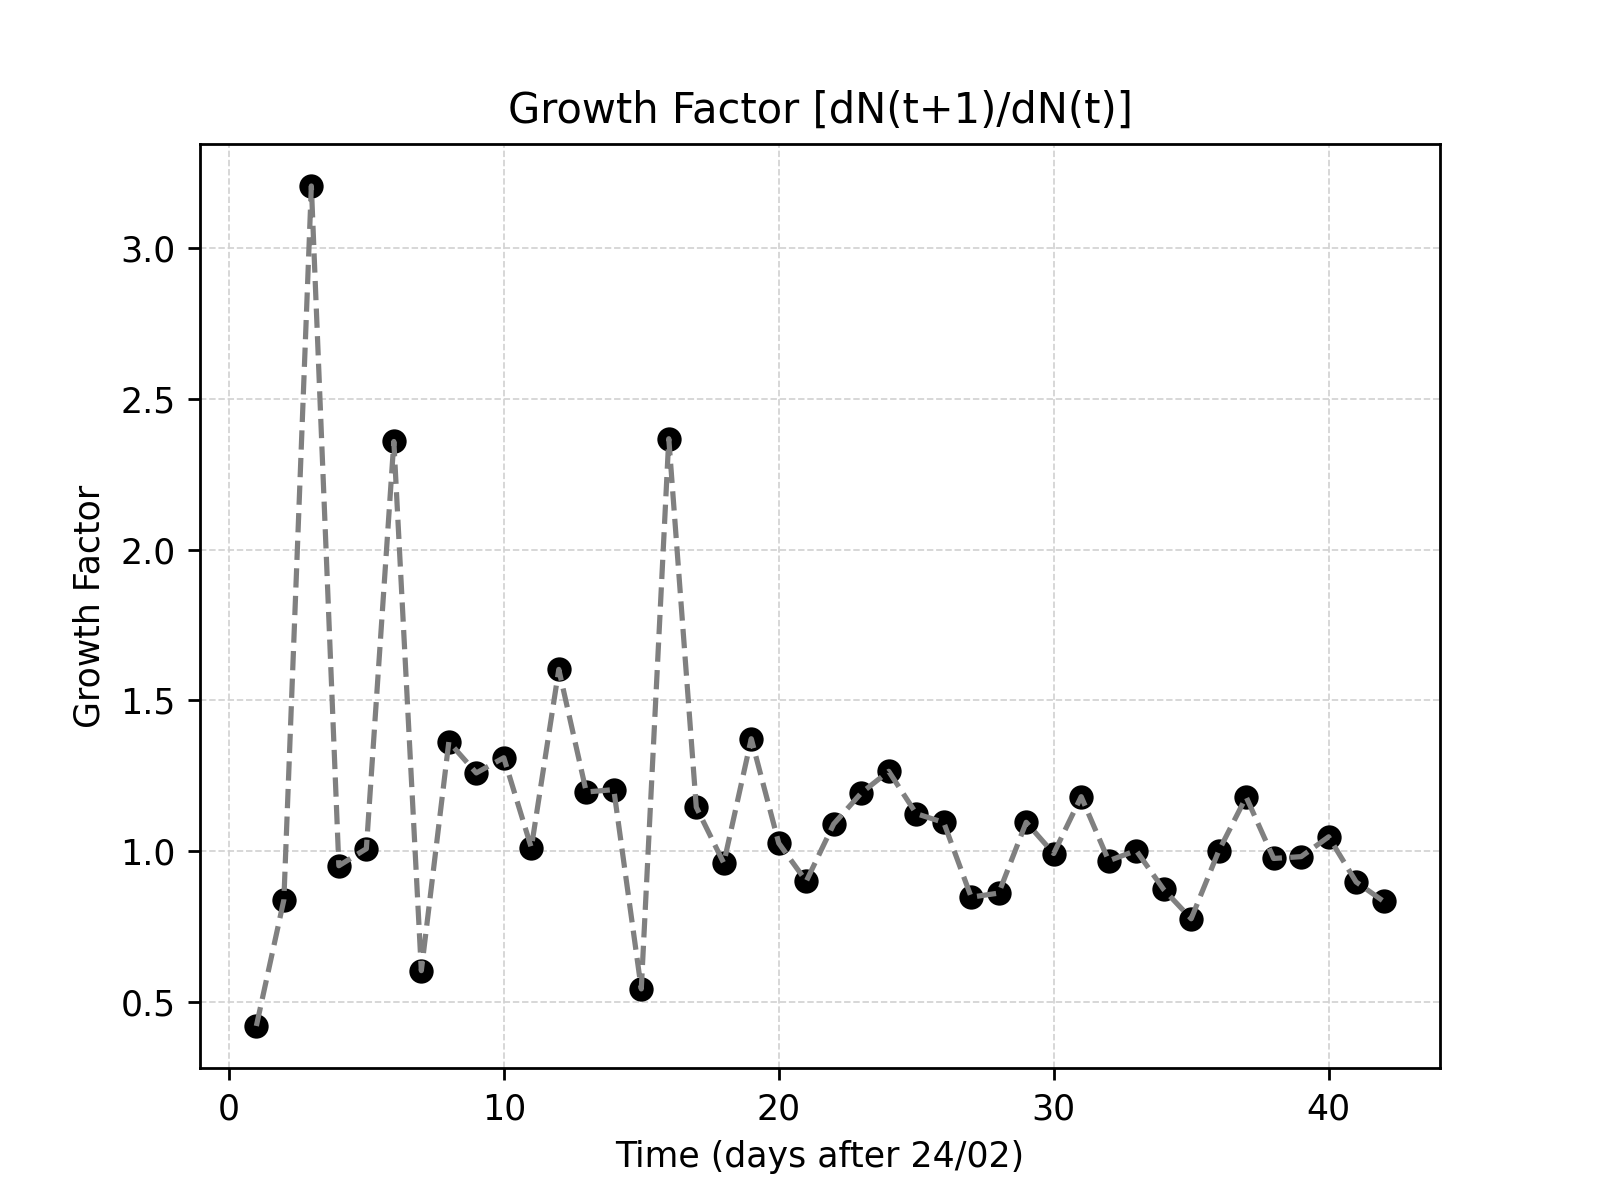
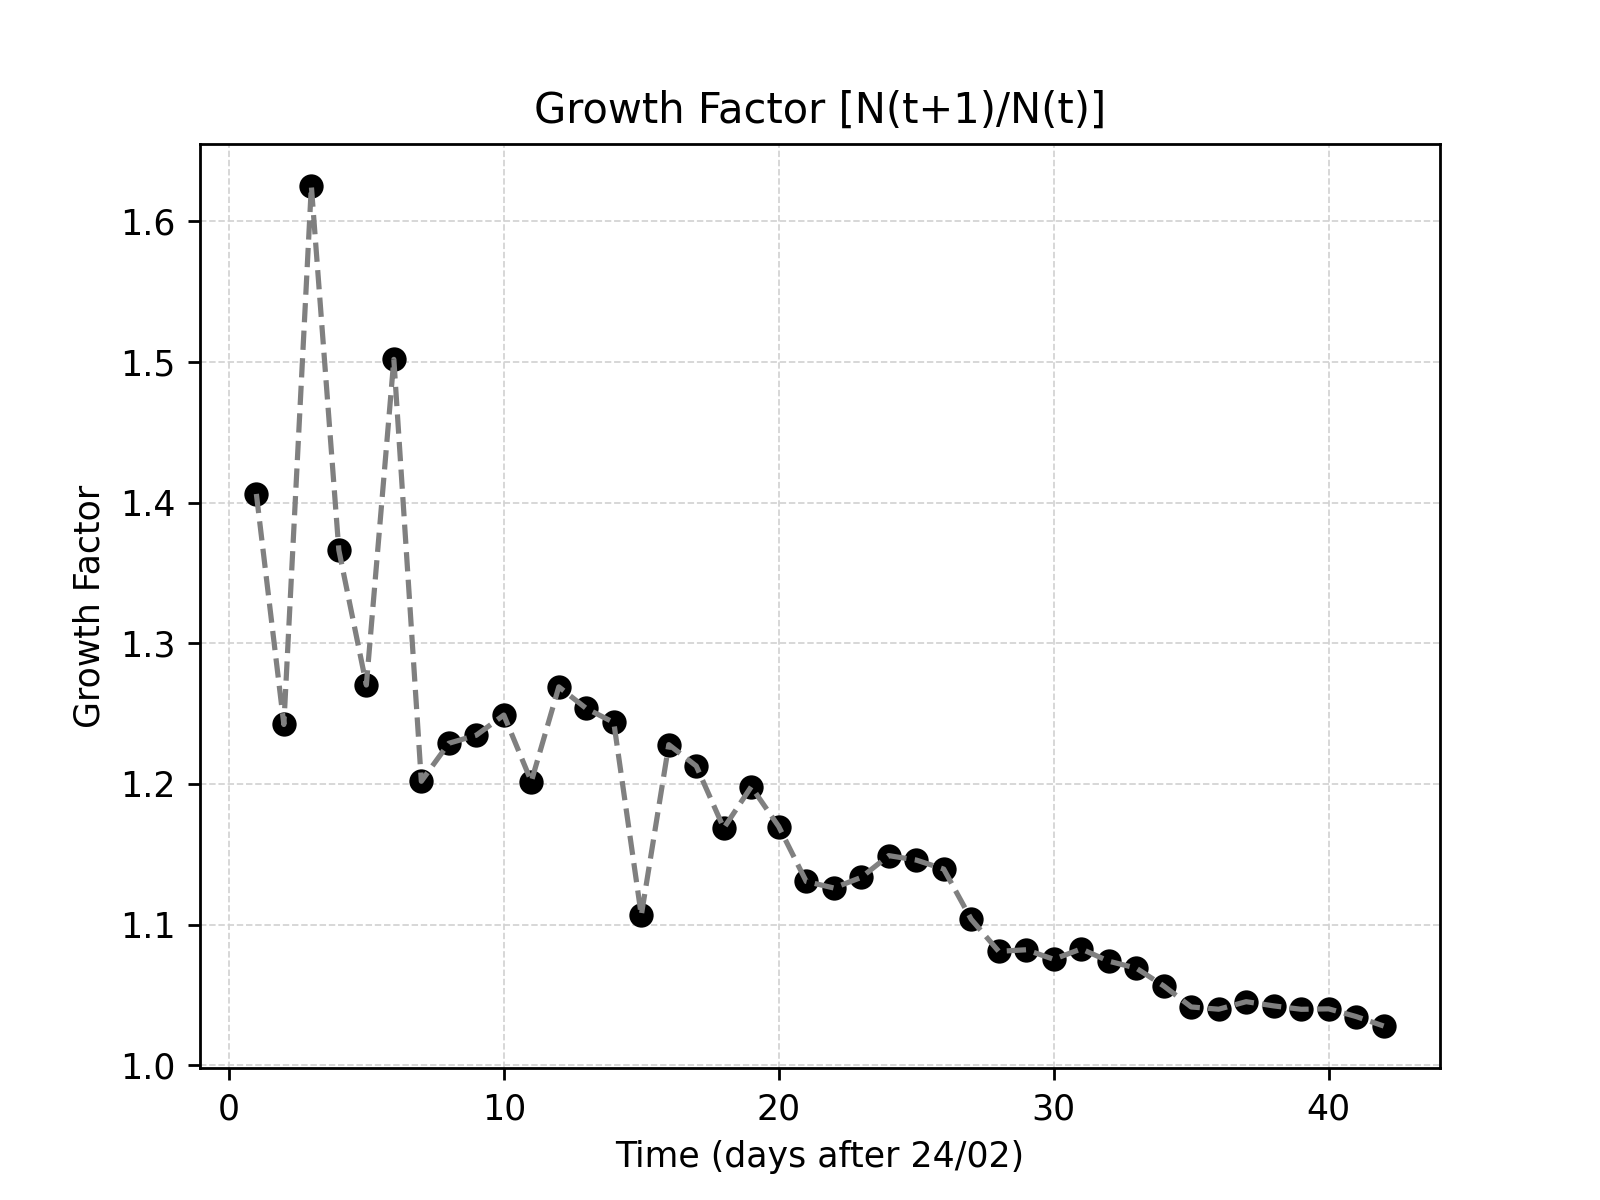
correct growth factor and update graphs in national

diff --git a/national.py b/national.py
@@ -196,6 +196,17 @@ plt.grid(color='lightgray', linestyle='--', linewidth=0.5)
 plt.savefig('./curves/curves-all.png', dpi = 250)
 plt.clf()
 
+plt.xlabel('Time (days after 24/02)')
+plt.ylabel('Values')
+plt.plot(days, dataset['isolamento_domiciliare'], c='limegreen', linestyle='-')
+plt.plot(days, dataset['totale_ospedalizzati'], c='darkred', linestyle='-')
+plt.plot(days, dataset['ricoverati_con_sintomi'], c='purple', linestyle='-')
+plt.plot(days, dataset['terapia_intensiva'], c='black', linestyle='-')
+plt.legend(('at Home','total in Hospital','Hospitalized with Symptoms','Intensive Care'),loc='upper right', bbox_to_anchor=(1.05, 1.15), ncol=2)
+plt.grid(color='lightgray', linestyle='--', linewidth=0.5)
+plt.savefig('./curves/curves-hospital-home.png', dpi = 250)
+plt.clf()
+
 #tamponi vs total cases and total currently positive
 plt.xlabel('Time (days after 24/02)')
 plt.ylabel('Values')
@@ -333,8 +344,8 @@ for i, _ in enumerate(dataset['totale_casi']):
     if(i < 1):
         print('\nCalculating growth factors: skipping index',i)
     else:
-        n1 = dataset['nuovi_positivi'].iloc[i]
-        n0 = dataset['nuovi_positivi'].iloc[i-1]
+        n1 = dataset['totale_casi'].iloc[i]
+        n0 = dataset['totale_casi'].iloc[i-1]
         growth_factor.append(n1/n0)
 
 print('\ngrowth factors day by day')
@@ -343,7 +354,7 @@ print(growth_factor)
 # growth factor
 plt.xlabel('Time (days after 24/02)')
 plt.ylabel('Growth Factor')
-plt.title('Growth Factor [dN(t+1)/dN(t)]')
+plt.title('Growth Factor [N(t+1)/N(t)]')
 plt.plot(days[1:], growth_factor, 'ko')
 plt.plot(days[1:], growth_factor, color='grey', linestyle='--')
 #plt.legend(('data','linked'),loc='upper right', bbox_to_anchor=(1.05, 1.15), ncol=2)
@@ -374,4 +385,14 @@ plt.plot(days[1:], growth_rate, color='cyan', linestyle='--')
 #plt.legend(('data','linked'),loc='upper right', bbox_to_anchor=(1.05, 1.15), ncol=2)
 plt.grid(color='lightgray', linestyle='--', linewidth=0.5)
 plt.savefig('./curves/growth-rate.png', dpi = 250)
+plt.clf()
+
+# trajectory of cases
+plt.xlabel('Total Cases')
+plt.ylabel('New Cases')
+plt.title('Trajectory of Cases')
+plt.plot(dataset['totale_casi'],dataset['nuovi_positivi'] , 'ko')
+plt.plot(dataset['totale_casi'],dataset['nuovi_positivi'], color='red', linestyle='--')
+plt.grid(color='lightgray', linestyle='--', linewidth=0.5)
+plt.savefig('./curves/trajectory.png', dpi = 250)
 plt.clf()
